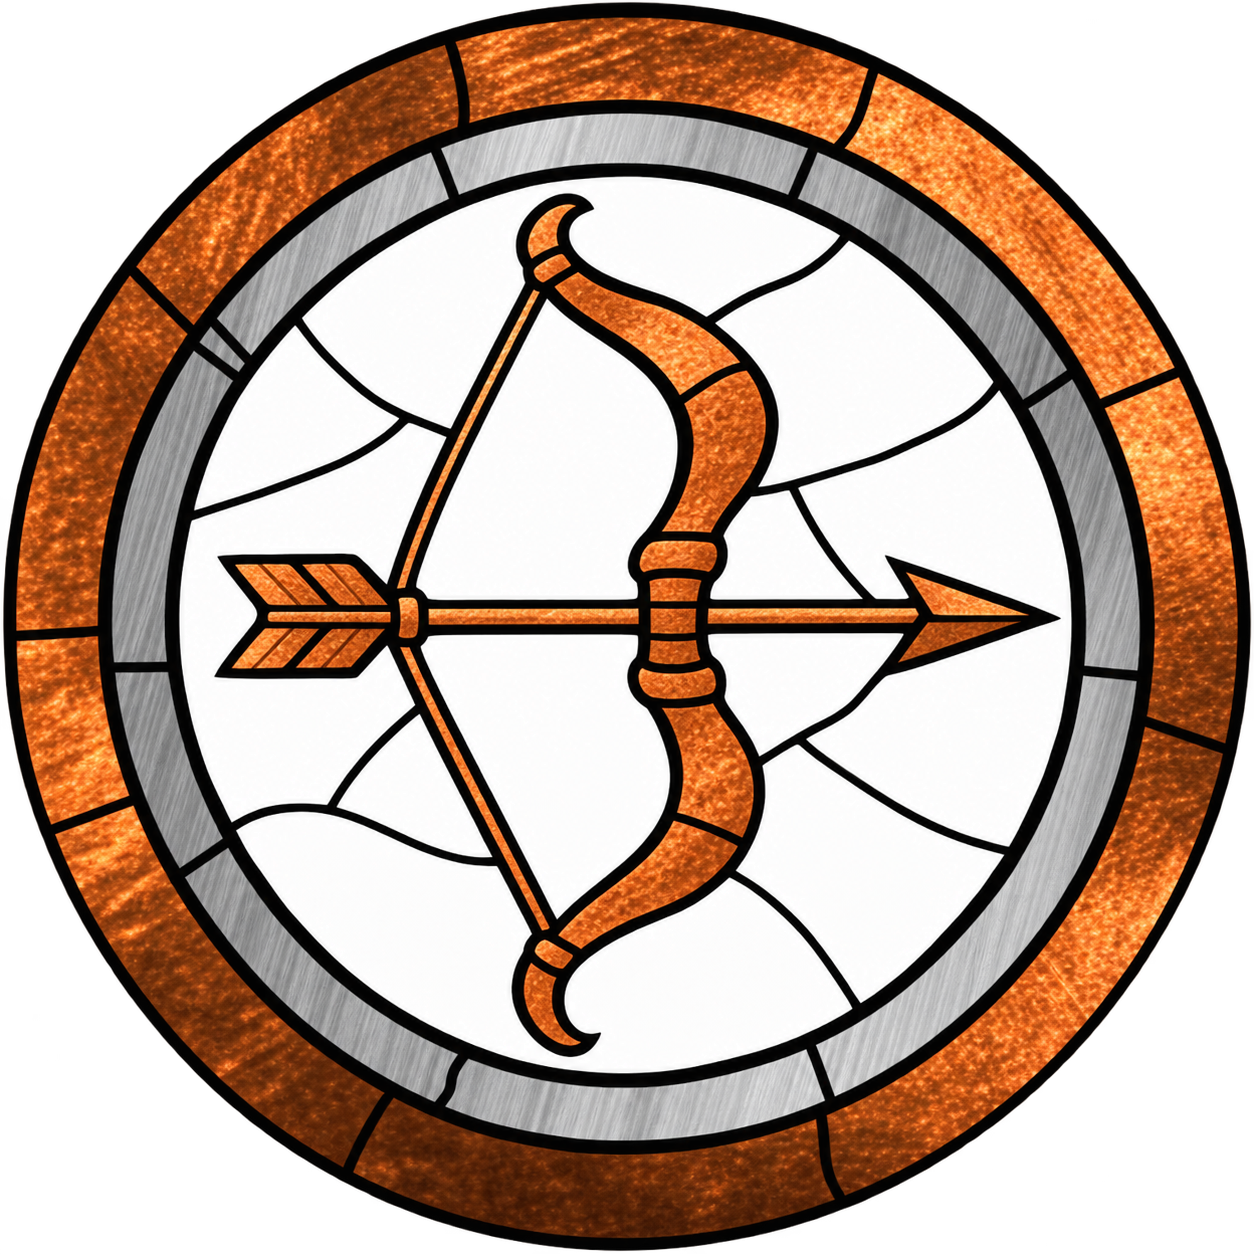
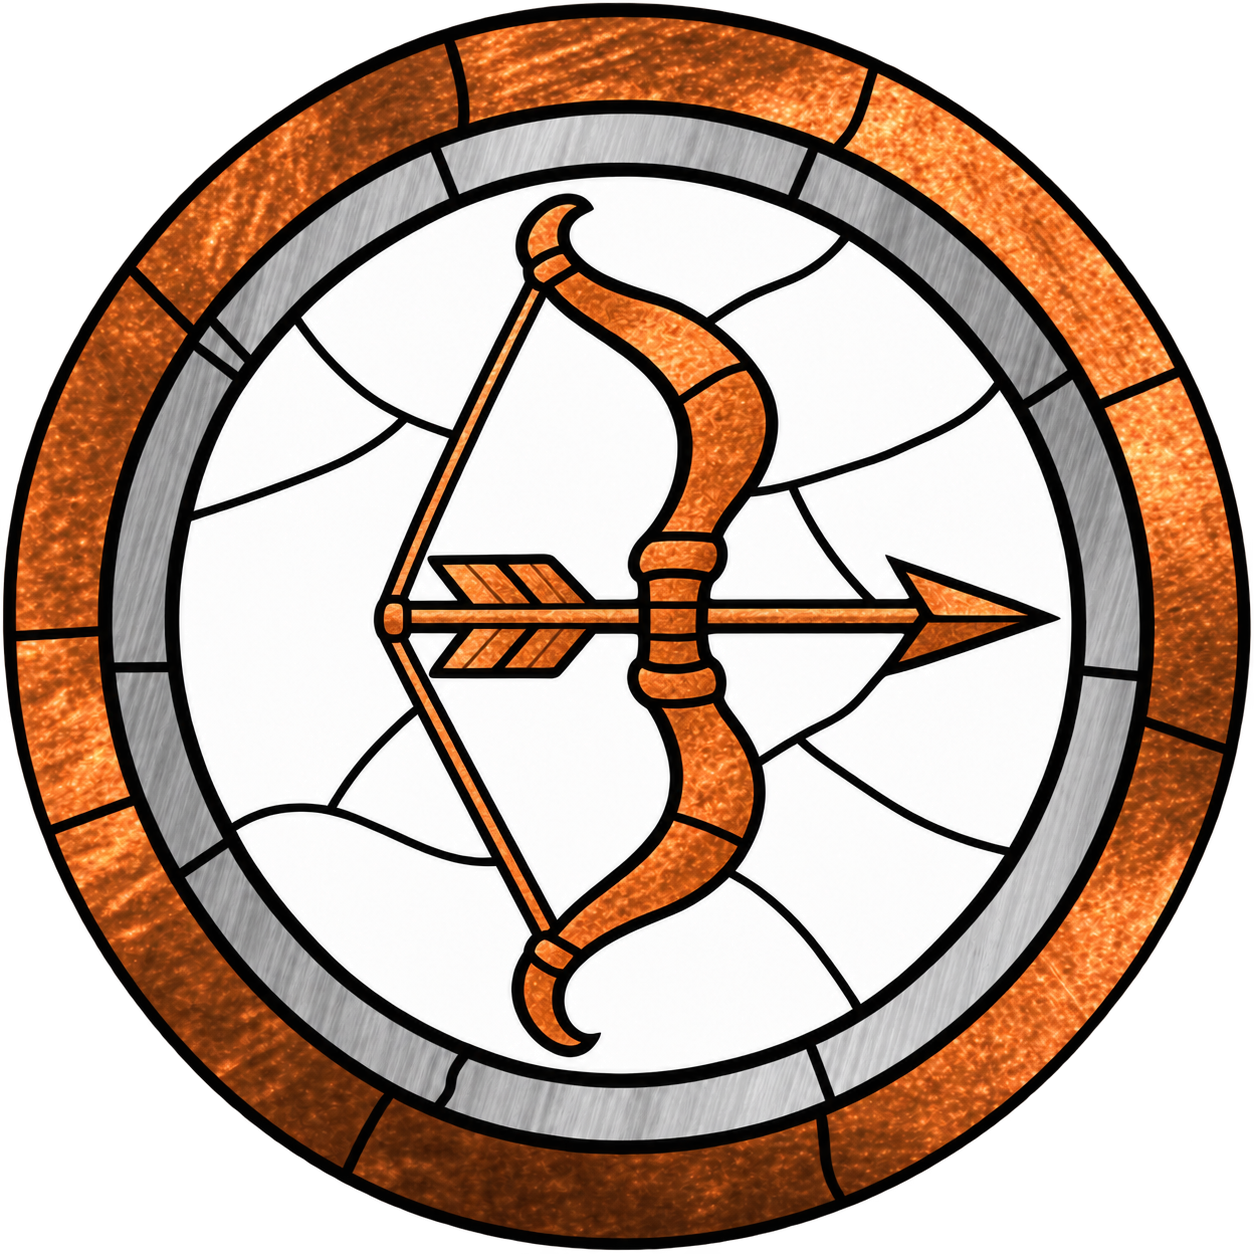
fix: corrige encaixe da flecha na insignia de arquearia

diff --git a/lib/insignias.ts b/lib/insignias.ts
@@ -34,7 +34,7 @@ export function getGraduationTrack(order?: string | null): DocumentTrack | null 
 
 export function getGraduationIcon(level: GraduationLevel, track: DocumentTrack | null) {
   if (level === "sem_graduacao" || !track) return null;
-  if (track === "arquearia") return `${base}/graduacoes/arquearia-bronze.webp`;
+  if (track === "arquearia") return `${base}/graduacoes/arquearia-bronze-nocked.webp`;
   return `${base}/graduacoes/${track}-${level}.webp`;
 }
 

diff --git a/docs/INSIGNIAS.md b/docs/INSIGNIAS.md
@@ -14,4 +14,4 @@ Foi usado o Imagegen integrado para criar o medalhão de bronze, com o arquivo d
 
 > Preserve the round segmented outer metal rim, narrow silver inner ring, white cracked stained-glass interior with heavy black outlines, flat hand-drawn heraldic style and subtle metal textures. Replace the central clenched armored fist with one clearly readable medieval recurve bow and a single nocked arrow, centered and filling the same area. No fist, no text, no letters, no extra decorations. Keep the entire circular medal visible, centered, tiny even outer margin, transparent outside the circular badge. The bow and outer rim must be copper bronze, distinctly reddish brown with copper orange highlights. All interior white regions remain opaque. Output one square isolated badge.
 
-Após a revisão do usuário, as gerações independentes de prata e ouro foram descartadas. Os três níveis agora usam exatamente `graduacoes/arquearia-bronze.webp`, com filtros SVG calibrados pelas cores dos medalhões de cavalaria, definidos em `components/member/Insignia.tsx` e aplicados em `app/insignias.css`. O desenho original foi preservado em `graduacoes/arquearia-master.png`.
+Após a revisão do usuário, as gerações independentes de prata e ouro foram descartadas. Os três níveis agora usam exatamente `graduacoes/arquearia-bronze-nocked.webp`, com filtros SVG calibrados pelas cores dos medalhões de cavalaria, definidos em `components/member/Insignia.tsx` e aplicados em `app/insignias.css`. O desenho original foi preservado em `graduacoes/arquearia-master.png`.
